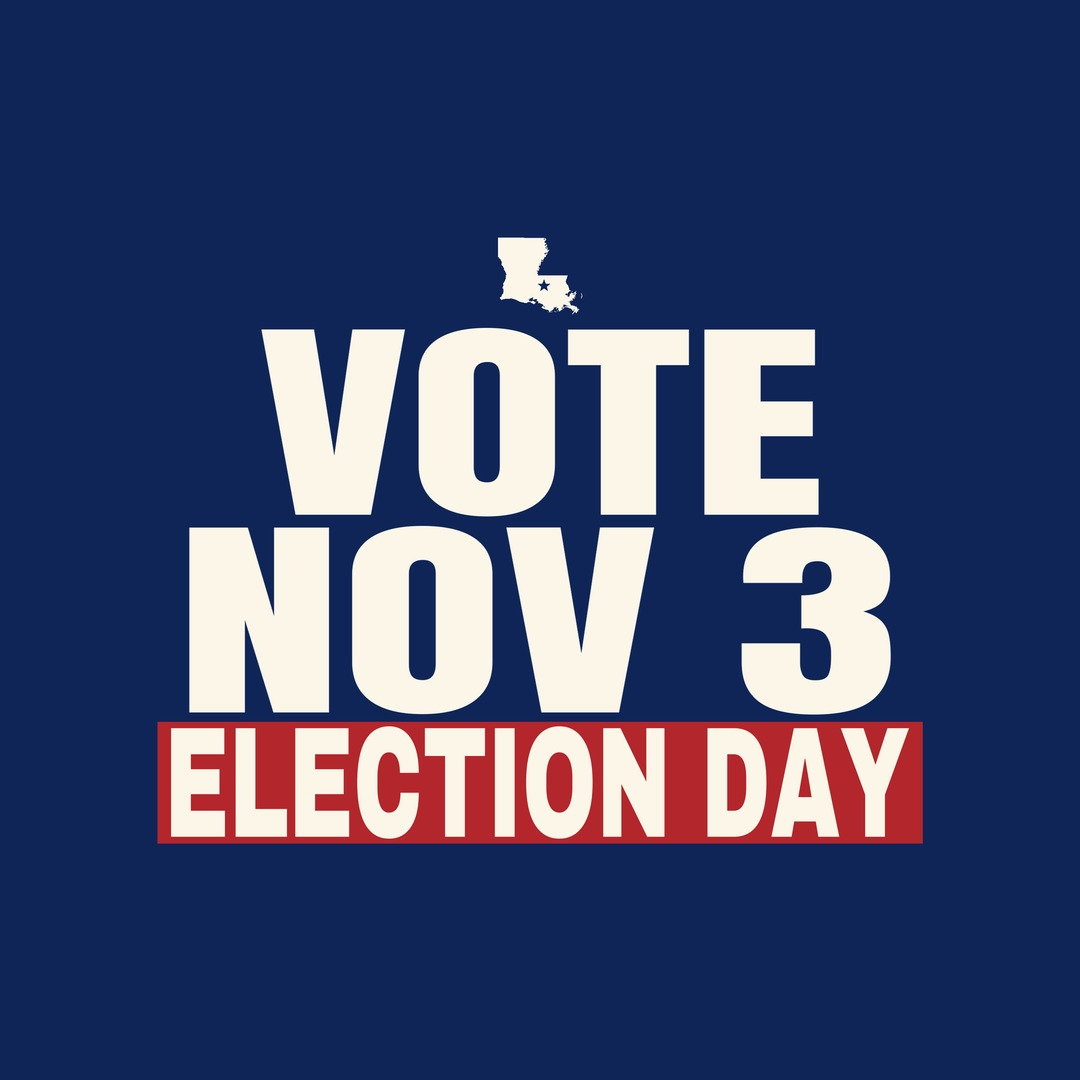
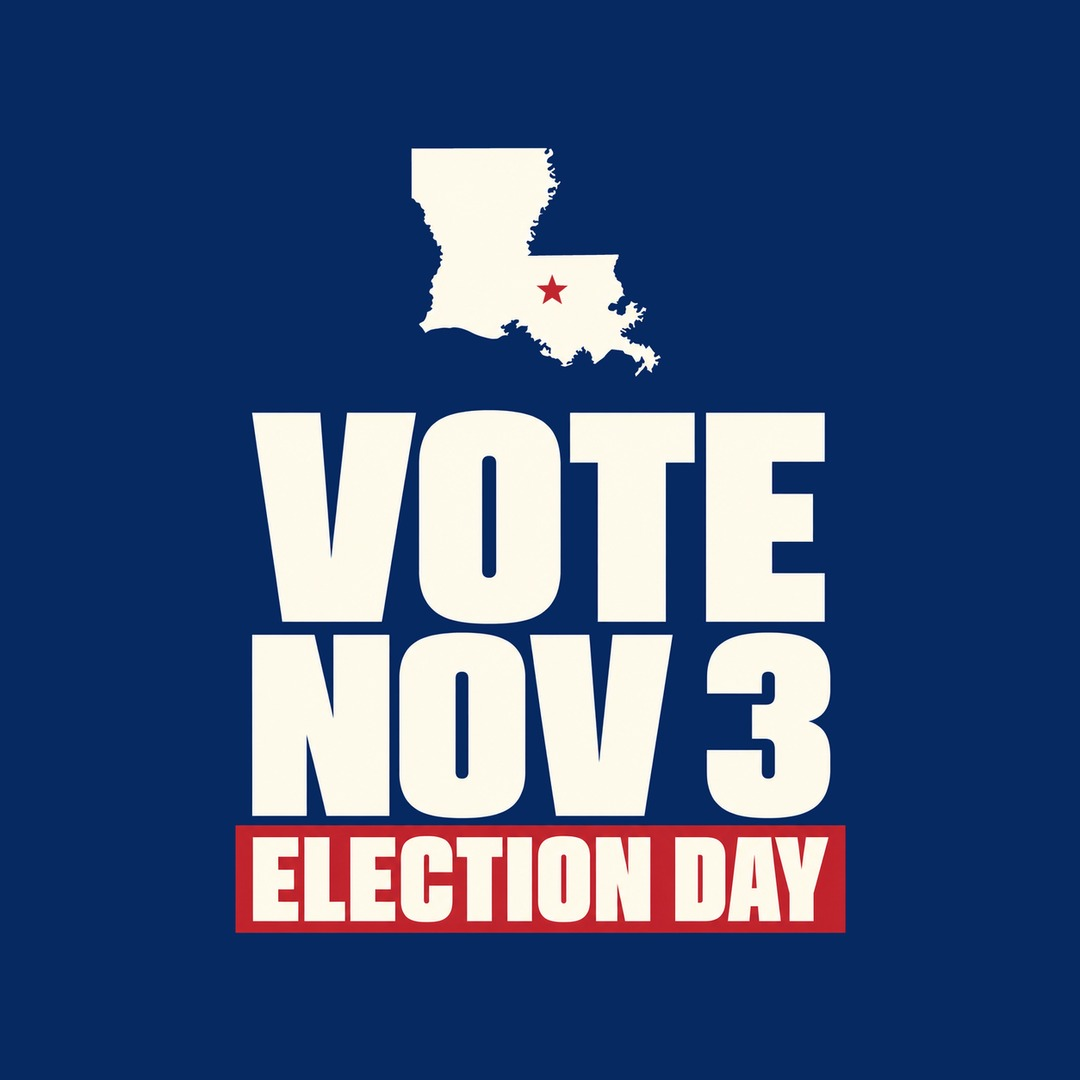
Louisiana: 10 new ready-mades from Codex; retire the earlier set
Claude-Session: https://claude.ai/code/session_01U4jJBSt3CnGjJYrtPzNn5q

Changed region(s): [[0.1222, 0.1222, 0.8556, 0.8861]]

diff --git a/site/index.php b/site/index.php
@@ -83,7 +83,7 @@ function vote_files( $abbr ) {
 
 // The state hero shows one standout ready-made, tilted (October 20, Garrett): the design named here,
 // or the first in the set. Numbers match <abbr>-vote-N.jpg.
-const VOTE_HERO = array( 'MS' => 5, 'MI' => 7, 'ID' => 7, 'NJ' => 5, 'OR' => 5, 'MN' => 6, 'NE' => 6, 'AL' => 6, 'AZ' => 6, 'CT' => 7, 'DE' => 5, 'GA' => 5, 'FL' => 5, 'HI' => 6, 'IL' => 8, 'AR' => 6, 'IN' => 5, 'KY' => 8, 'ME' => 6 );
+const VOTE_HERO = array( 'MS' => 5, 'MI' => 7, 'ID' => 7, 'NJ' => 5, 'OR' => 5, 'MN' => 6, 'NE' => 6, 'AL' => 6, 'AZ' => 6, 'CT' => 7, 'DE' => 5, 'GA' => 5, 'FL' => 5, 'HI' => 6, 'IL' => 8, 'AR' => 6, 'IN' => 5, 'KY' => 8, 'ME' => 6, 'LA' => 6 );
 function vote_hero_file( $abbr ) {
 	$n = VOTE_HERO[ $abbr ] ?? 0;
 	$k = strtolower( $abbr );
